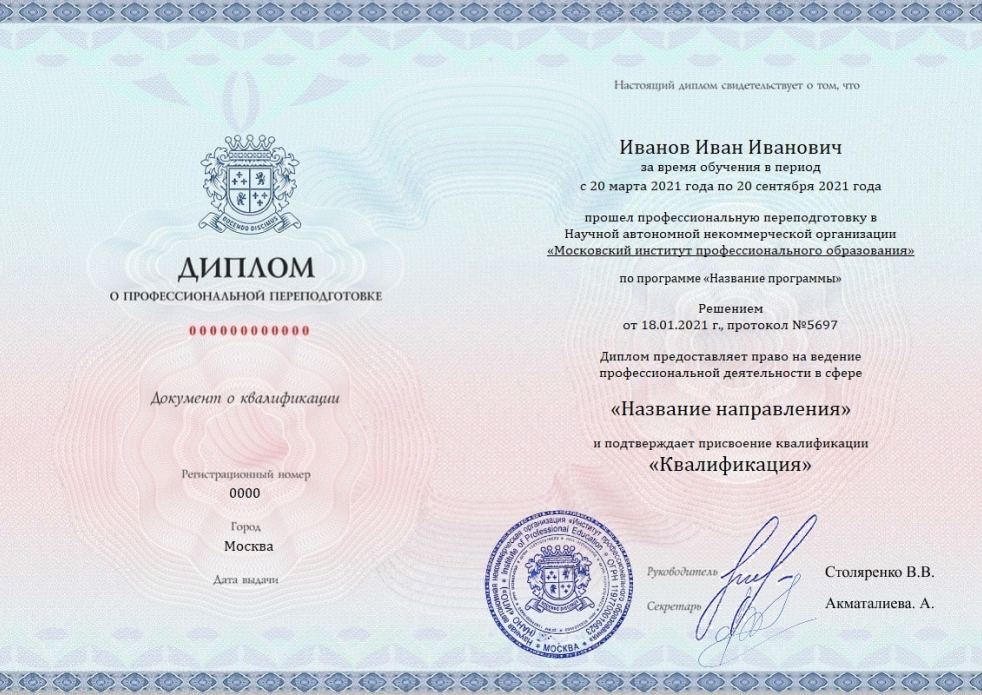
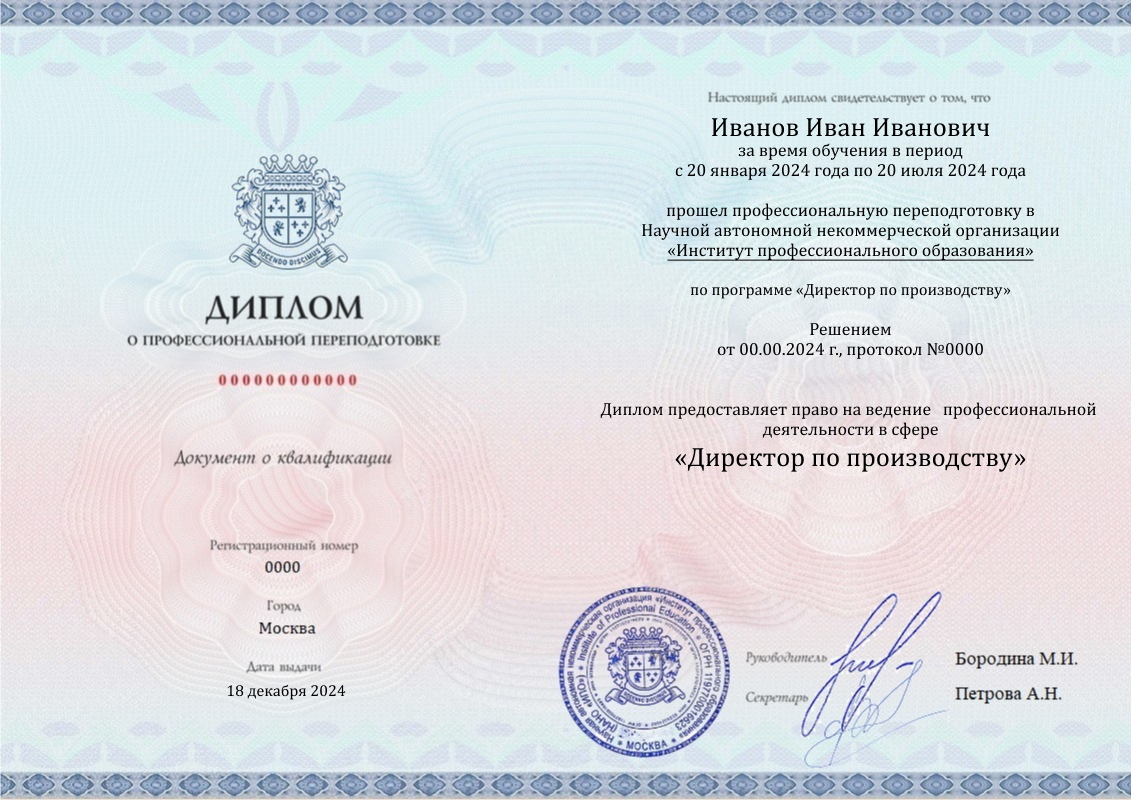
fix: изменение диплома и исправление скриптов в курсах

diff --git a/components/imgs/diplomas/ImgDiplomaTemplate.tsx b/components/imgs/diplomas/ImgDiplomaTemplate.tsx
@@ -1,9 +1,7 @@
-import stls from '@/styles/components/imgs/diplomas/ImgDiplomaTemplate.module.sass'
 import { TypeImg } from '@/types/index'
 import { useContext } from 'react'
 import { format } from 'date-fns'
 import { ru } from 'date-fns/locale'
-import { calculateClosestAdmission } from '@/helpers/index'
 import programContext from '@/context/program/programContext'
 import { ImgTemplate } from '@/components/imgs'
 import defaultSrc from '@/public/assets/imgs/diplomas/diploma.jpg'
@@ -17,10 +15,6 @@ const ImgDiplomaTemplate = ({ classNames = [], width, height }: TypeImg) => {
   const now = new Date()
 
   const studyPeriod = Number(program?.timenprice?.[0]?.studyMonthsDuration) || 6
-  const programName =
-    program?.title?.replace(/,/g, encodeURIComponent(',')) ||
-    'Наименование программы'
-  const qualification = program?.qualification || 'Присваемая квалификация'
 
   const fromDate = format(
     new Date(
@@ -62,63 +56,17 @@ const ImgDiplomaTemplate = ({ classNames = [], width, height }: TypeImg) => {
     .replace('октябрь', 'октября')
     .replace('ноябрь', 'ноября')
 
-  const PTSerif = encodeURIComponent('PT Serif')
-  const EBGaramond = encodeURIComponent('EB Garamond')
-  const qualificationEncoded = encodeURIComponent(qualification)
-
-  const coma = encodeURIComponent(',')
-
-  const fromDateOff = format(
-    new Date(
-      now.getFullYear(),
-      now.getMonth(),
-      (now.getDate() < 5 ? 5 : 20) - 2
-    ),
-    'dd.MM.yyyy',
-    { locale: ru }
-  )
-
-  const src = `https://res.cloudinary.com/mipo-msk-ru/image/upload/c_fit,l_text:${PTSerif}_24_center:${encodeURIComponent(
-    'Иванов Иван Иванович'
-  )},w_410,x_283,y_120,g_north/c_fit,l_text:${EBGaramond}_16_center:${encodeURIComponent(
-    'за время обучения в период'
-  )},w_410,x_283,y_145,g_north/c_fit,l_text:${PTSerif}_16_center:${encodeURIComponent(
-    `с ${fromDate} года по ${toDate} года \n\n прошел профессиональную переподготовку в Научной автономной некоммерческой организации \n «Московский Институт Профессионального Образования» \n\n по программе «${programName}» \n\n Решением \n от ${fromDateOff}${coma} протокол 0000 \n\n Диплом предоставляет право на ведение профессиональной деятельности в сфере \n\n «${programName}» \n\n и подтверждает присвоение квалификации \n ${qualificationEncoded}`
-  )},w_450,x_283,y_169,g_north/diploma_template_899ffad3b8.jpg`
-
-  // const srcTemplate =
-  //   'https://res.cloudinary.com/mipo-msk-ru/image/upload/v1669805693/diploma_template_899ffad3b8.jpg'
-
-  // console.log(EBGaramond)
-  // console.log(PTSerif)
-  // console.log(fromDate)
-  // console.log(toDate)
-  // console.log(programName)
-  // console.log(fromDateOff)
-  // console.log(coma)
-  // console.log(qualification)
-  // console.log(src)
-
   return (
     <ImgTemplate
       classNames={classNames}
-      src={atMba && defaultSrcMba || src || defaultSrc}
+      src={atMba && defaultSrcMba || defaultSrc}
       alt='Диплом МИПО'
       width={width || 1131}
       height={height || 800}
-      // brakes without this
       unoptimized
     />
-    // <ImgTemplate
-    //   classNames={classNames}
-    //   src={defaultSrc}
-    //   alt='Диплом МИПО'
-    //   width={width}
-    //   height={height}
-    // />
   )
 }
 
-// https://res.cloudinary.com/demo/image/upload/l_text:Arial_100_bold:Boston/l_text:Arial_100:%7C/g_west,fl_layer_apply,x_w_add_20/l_text:Arial_100_italic:79%C2%B0F/g_west,fl_layer_apply,x_w_add_20/photo-1430609098125-581618d0482f_xvayby
 
 export default ImgDiplomaTemplate

diff --git a/components/pages/PagesProgram.tsx b/components/pages/PagesProgram.tsx
@@ -54,7 +54,7 @@ const PagesProgram = ({ ofType = null, reviews }: PagesProgramType) => {
   return (
     <>
       <HeroProgram />
-      {/* <Desc /> */}
+
       {isMshppBlock && <CardMshpp />}
       <ForWhom />
       {altStyles && <SectionMoreRelevant />}
@@ -64,13 +64,10 @@ const PagesProgram = ({ ofType = null, reviews }: PagesProgramType) => {
       {altStyles && <SectionYourDiplomasAlt />}
       {altStyles && <SectionOurGraduates />}
       {altStyles && <SectionRelevantContentOnly />}
-      {/* <YourDiploma ofType={ofType} /> */}
+
       <BriefProgramContents />
       <FullProgram />
-      {/* {ofType !== 'course' &&
-        program?.resumeTitle &&
-        program?.entrySalary &&
-        program?.resumeSkills && <YourResume />} */}
+
       {ofType !== 'course' && !altStyles && <YourFutureJob />}
       {altStyles && <SectionInternationalExperts />}
 
@@ -99,23 +96,24 @@ const PagesProgram = ({ ofType = null, reviews }: PagesProgramType) => {
       />
       {!altStyles && <TrustedBy />}
       {altStyles && <SectionTrustedByAlt />}
-      {/* {altStyles && <Reviews reviews={reviews} />} */}
+
       {altStyles && (
         <SectionReviewsAlt
           programReviews={program?.reviews}
           reviews={reviews}
         />
       )}
-      {/* <HelpWithEmployment /> */}
+
       <StudyCost />
       <Faq />
       {altStyles && <SectionCorporateCourse />}
+
       <Script id="xcntmyAsync"
               type="text/javascript"
               strategy="afterInteractive"
-              async
+              defer
               dangerouslySetInnerHTML={{__html: `
-                var xcnt_product_id = '${program.id}';
+                var xcnt_product_id = '${program?.id ? program.id : ''}';
                   (function(d){
                   var xscr = d.createElement( 'script' ); 
                   xscr.async = 1;

diff --git a/components/sections/general/SectionYourDiplomasAlt.tsx b/components/sections/general/SectionYourDiplomasAlt.tsx
@@ -65,6 +65,7 @@ const SectionYourDiplomasAlt = ({ classNames }: TSectionYourDiplomasAlt) => {
             </div>
           </div>
         </div>
+
         <div className={stls.diplomas}>
           <div className={stls.left}>
             <Popup
@@ -79,6 +80,7 @@ const SectionYourDiplomasAlt = ({ classNames }: TSectionYourDiplomasAlt) => {
               closeOnDocumentClick>
               {close => <PopupImage image={imgDiploma} close={close} />}
             </Popup>
+
             <Popup
               trigger={
                 <a href='#!' className={stls.diploma}>
@@ -94,6 +96,7 @@ const SectionYourDiplomasAlt = ({ classNames }: TSectionYourDiplomasAlt) => {
               )}
             </Popup>
           </div>
+
           <div className={stls.right}>
             <Popup
               trigger={
